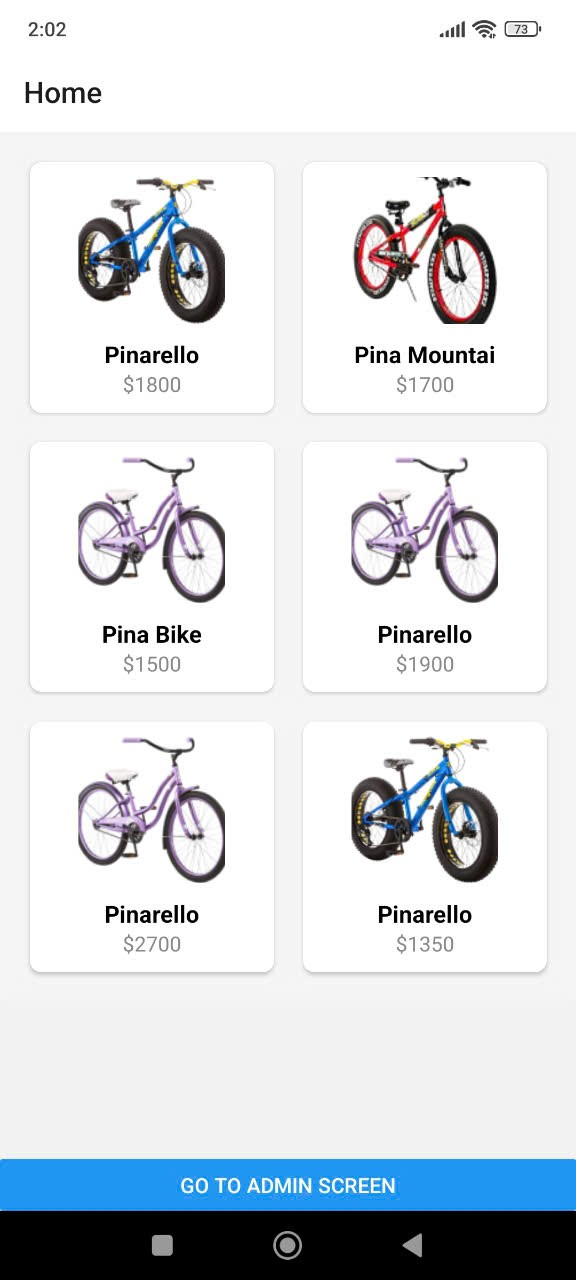
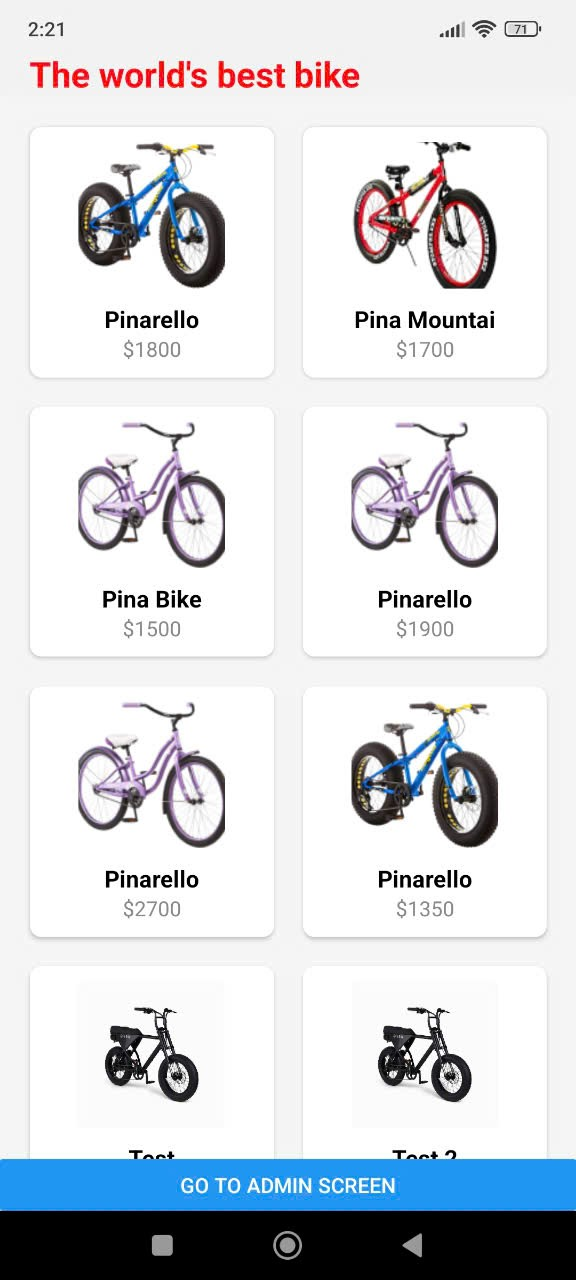
change title

diff --git a/screens/AdminScreen.js b/screens/AdminScreen.js
@@ -4,6 +4,8 @@ import * as ImagePicker from 'expo-image-picker'
 import { useDispatch } from 'react-redux'
 import axios from 'axios'
 import { fetchBikes } from '../app/bikeSlice'
+import { SafeAreaView } from 'react-native-safe-area-context'
+import { useNavigation } from '@react-navigation/native'
 
 const API_URL = 'https://67319cf77aaf2a9aff11341c.mockapi.io/bike'
 const CLOUDINARY_URL = 'https://api.cloudinary.com/v1_1/dqhbikdg0/image/upload'
@@ -15,6 +17,8 @@ export default function AdminScreen() {
   const [name, setName] = useState('')
   const [price, setPrice] = useState('')
   const [image, setImage] = useState(null) // URI of the selected image
+
+  const navigation = useNavigation()
 
   // Function to handle image selection
   const pickImage = async () => {
@@ -90,7 +94,10 @@ export default function AdminScreen() {
   }
 
   return (
-    <View style={styles.container}>
+    <SafeAreaView style={styles.container}>
+      <TouchableOpacity onPress={() => navigation.goBack()} style={{ paddingVertical: 16 }}>
+        <Text>Go back</Text>
+      </TouchableOpacity>
       <Text style={styles.title}>Add New Bike</Text>
       <TextInput
         style={styles.input}
@@ -115,7 +122,7 @@ export default function AdminScreen() {
       )}
 
       <Button title="Add Bike" onPress={handleSubmit} />
-    </View>
+    </SafeAreaView>
   )
 }
 

diff --git a/screens/HomeScreen.js b/screens/HomeScreen.js
@@ -3,6 +3,7 @@ import { useDispatch, useSelector } from 'react-redux'
 import { fetchBikes } from '../app/bikeSlice'
 import { View, Text, Image, FlatList, StyleSheet, Button } from 'react-native'
 import { useNavigation } from '@react-navigation/native'
+import { SafeAreaView } from 'react-native-safe-area-context'
 
 export default function HomeScreen() {
   const dispatch = useDispatch()
@@ -30,7 +31,8 @@ export default function HomeScreen() {
   )
 
   return (
-    <View style={{ flex: 1 }}>
+    <SafeAreaView style={{ flex: 1 }}>
+      <Text style={{ marginLeft: 20, fontSize: 24, fontWeight: 'bold', color: "red" }}>The world's best bike</Text>
       <FlatList
         data={bikes}
         renderItem={renderItem}
@@ -39,7 +41,7 @@ export default function HomeScreen() {
         contentContainerStyle={styles.container}
       />
       <Button title="Go to Admin Screen" onPress={() => navigation.navigate('Admin')} />
-    </View>
+    </SafeAreaView>
   )
 }
 

diff --git a/App.js b/App.js
@@ -11,7 +11,7 @@ export default function App() {
   return (
     <Provider store={store}>
       <NavigationContainer>
-        <Stack.Navigator>
+        <Stack.Navigator screenOptions={{ headerShown: false }}>
           <Stack.Screen name="Home" component={HomeScreen} />
           <Stack.Screen name="Admin" component={AdminScreen} />
         </Stack.Navigator>
